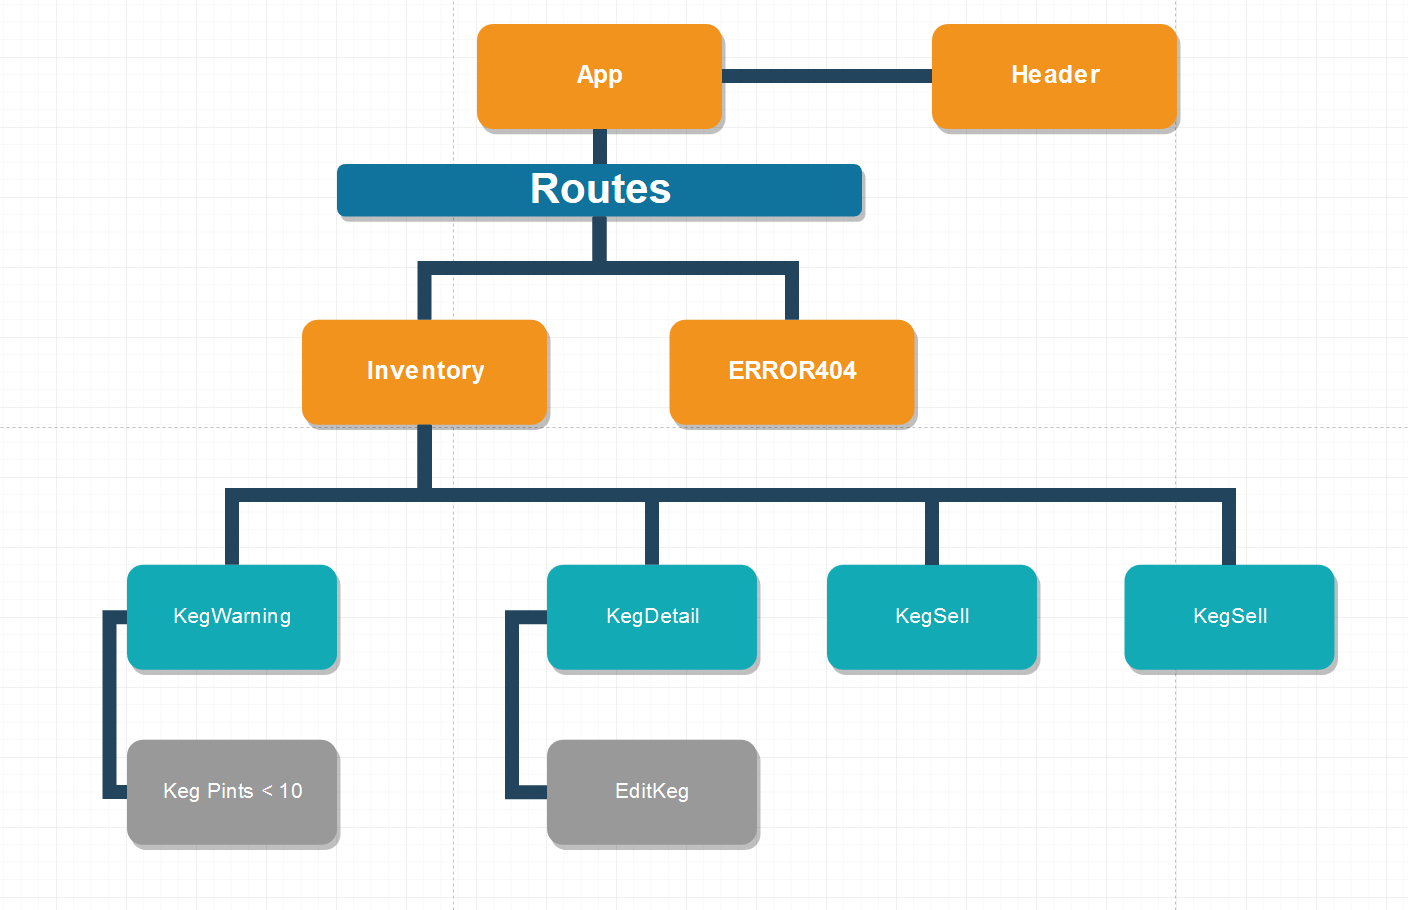
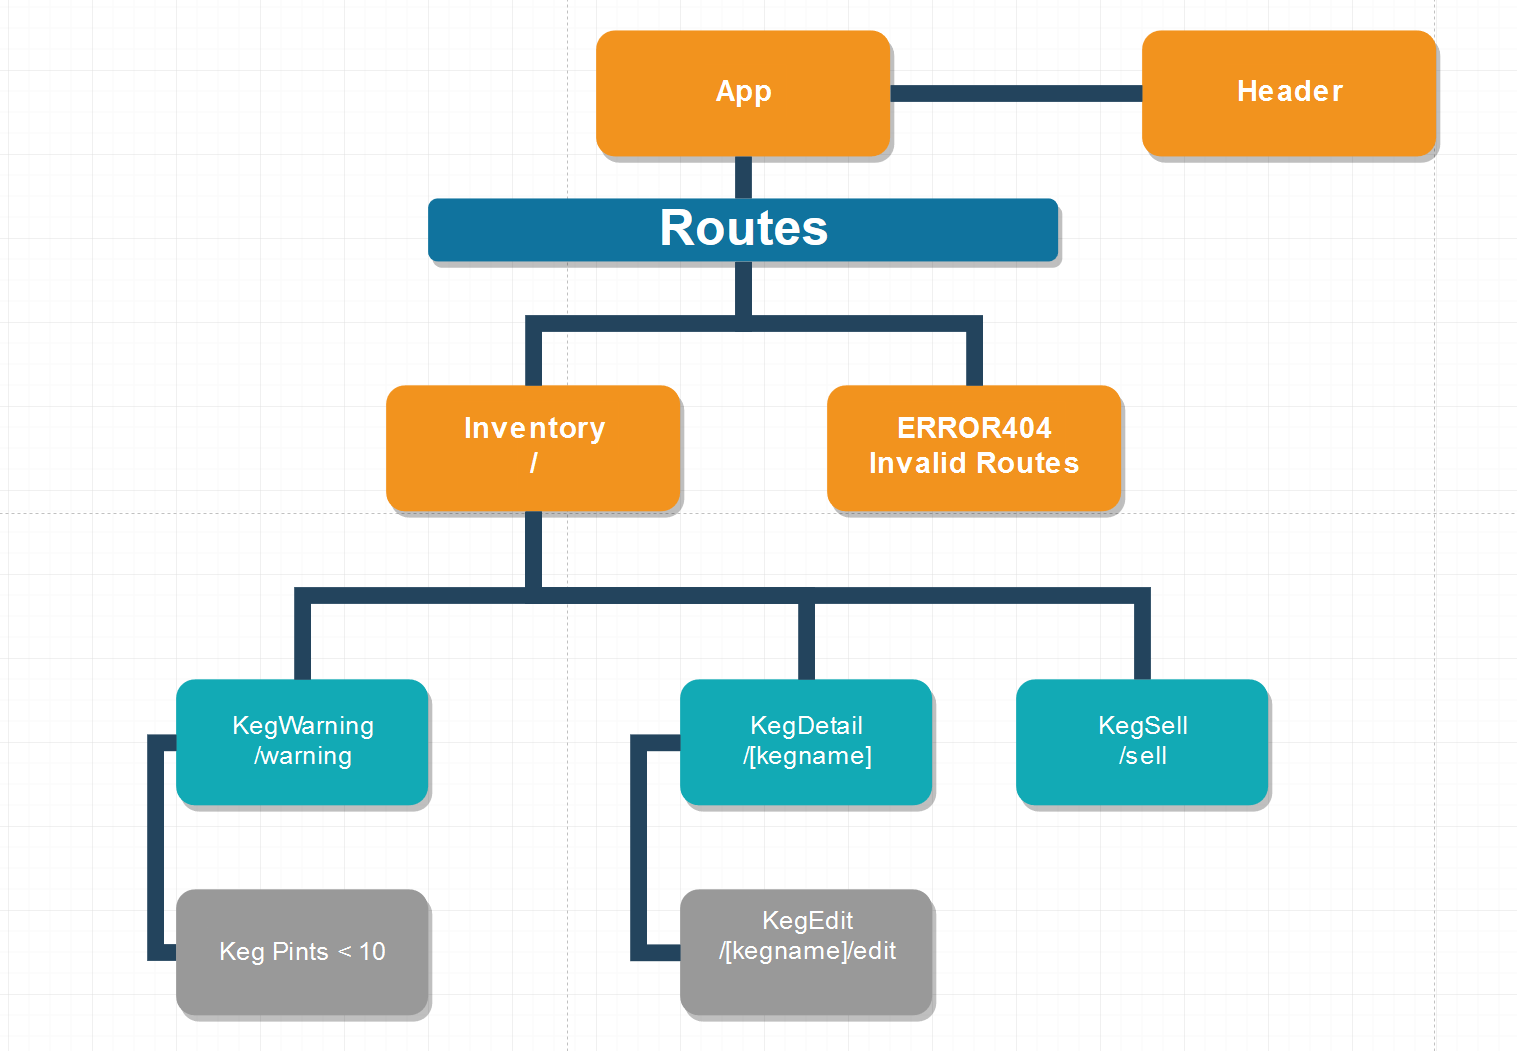
update diagram to include routes, add routes specs to readme

Changed region(s): [[0.0625, 0.0, 0.9688, 0.9846]]

diff --git a/src/components/Error404.jsx b/src/components/Error404.jsx
@@ -1,16 +1,16 @@
-// Autogenerated using npm run gen EditKeg
+// Autogenerated using npm run gen Error404
 import styled from 'styled-components';
 // import { Link, Switch, Route } from 'react-router-dom';
 
-function EditKeg(){
+function Error404(){
   return (
     <Main>
-      <h1>EditKeg Component Created Successfully</h1>
+      <h1>Error404 Component Created Successfully</h1>
     </Main>
   );
 }
 
-export default EditKeg;
+export default Error404;
 
 const Main = styled.div`
 background-color: black;
@@ -21,8 +21,8 @@ color: white;
 
 /*
 * Copy to other files
-* import EditKeg from './EditKeg';
-* <EditKeg/>
+* import Error404 from './Error404';
+* <Error404/>
 */
 
 

diff --git a/src/components/KegEdit.jsx b/src/components/KegEdit.jsx
@@ -1,0 +1,26 @@
+// Autogenerated using npm run gen KegEdit
+import styled from 'styled-components';
+// import { Link, Switch, Route } from 'react-router-dom';
+
+function KegEdit(){
+  return (
+    <Main>
+      <h1>KegEdit Component Created Successfully</h1>
+    </Main>
+  );
+}
+
+export default KegEdit;
+
+const Main = styled.div`
+background-color: black;
+font-family: sans-serif;
+padding-top: 50px;
+color: white;
+`;
+
+/*
+* Copy to other files
+* import KegEdit from './KegEdit';
+* <KegEdit/>
+*/
